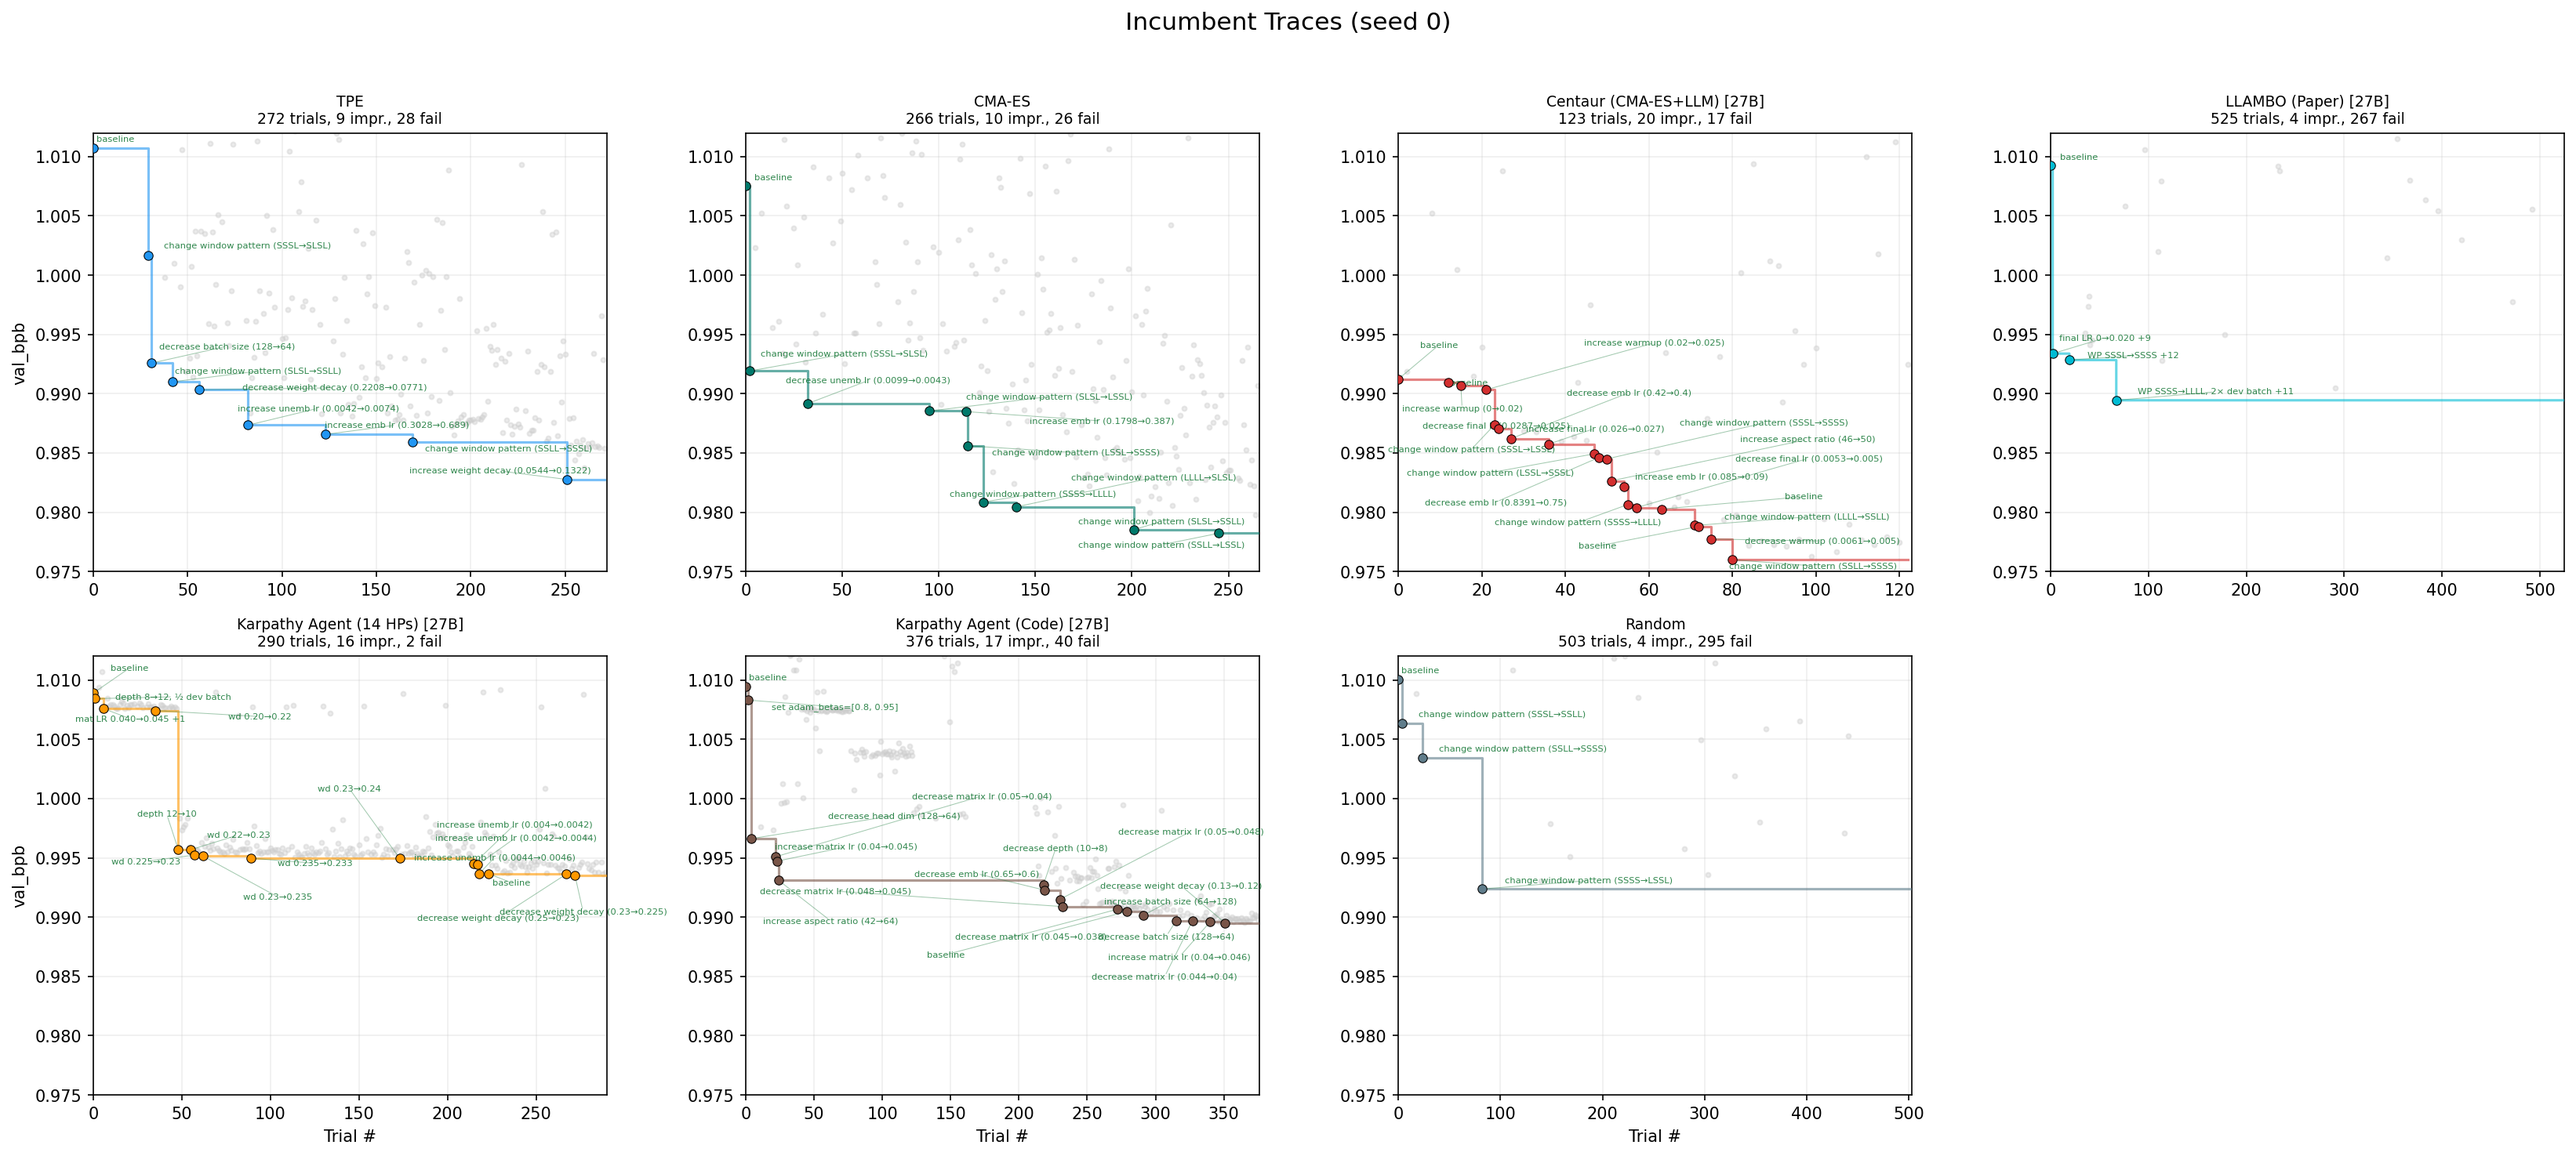
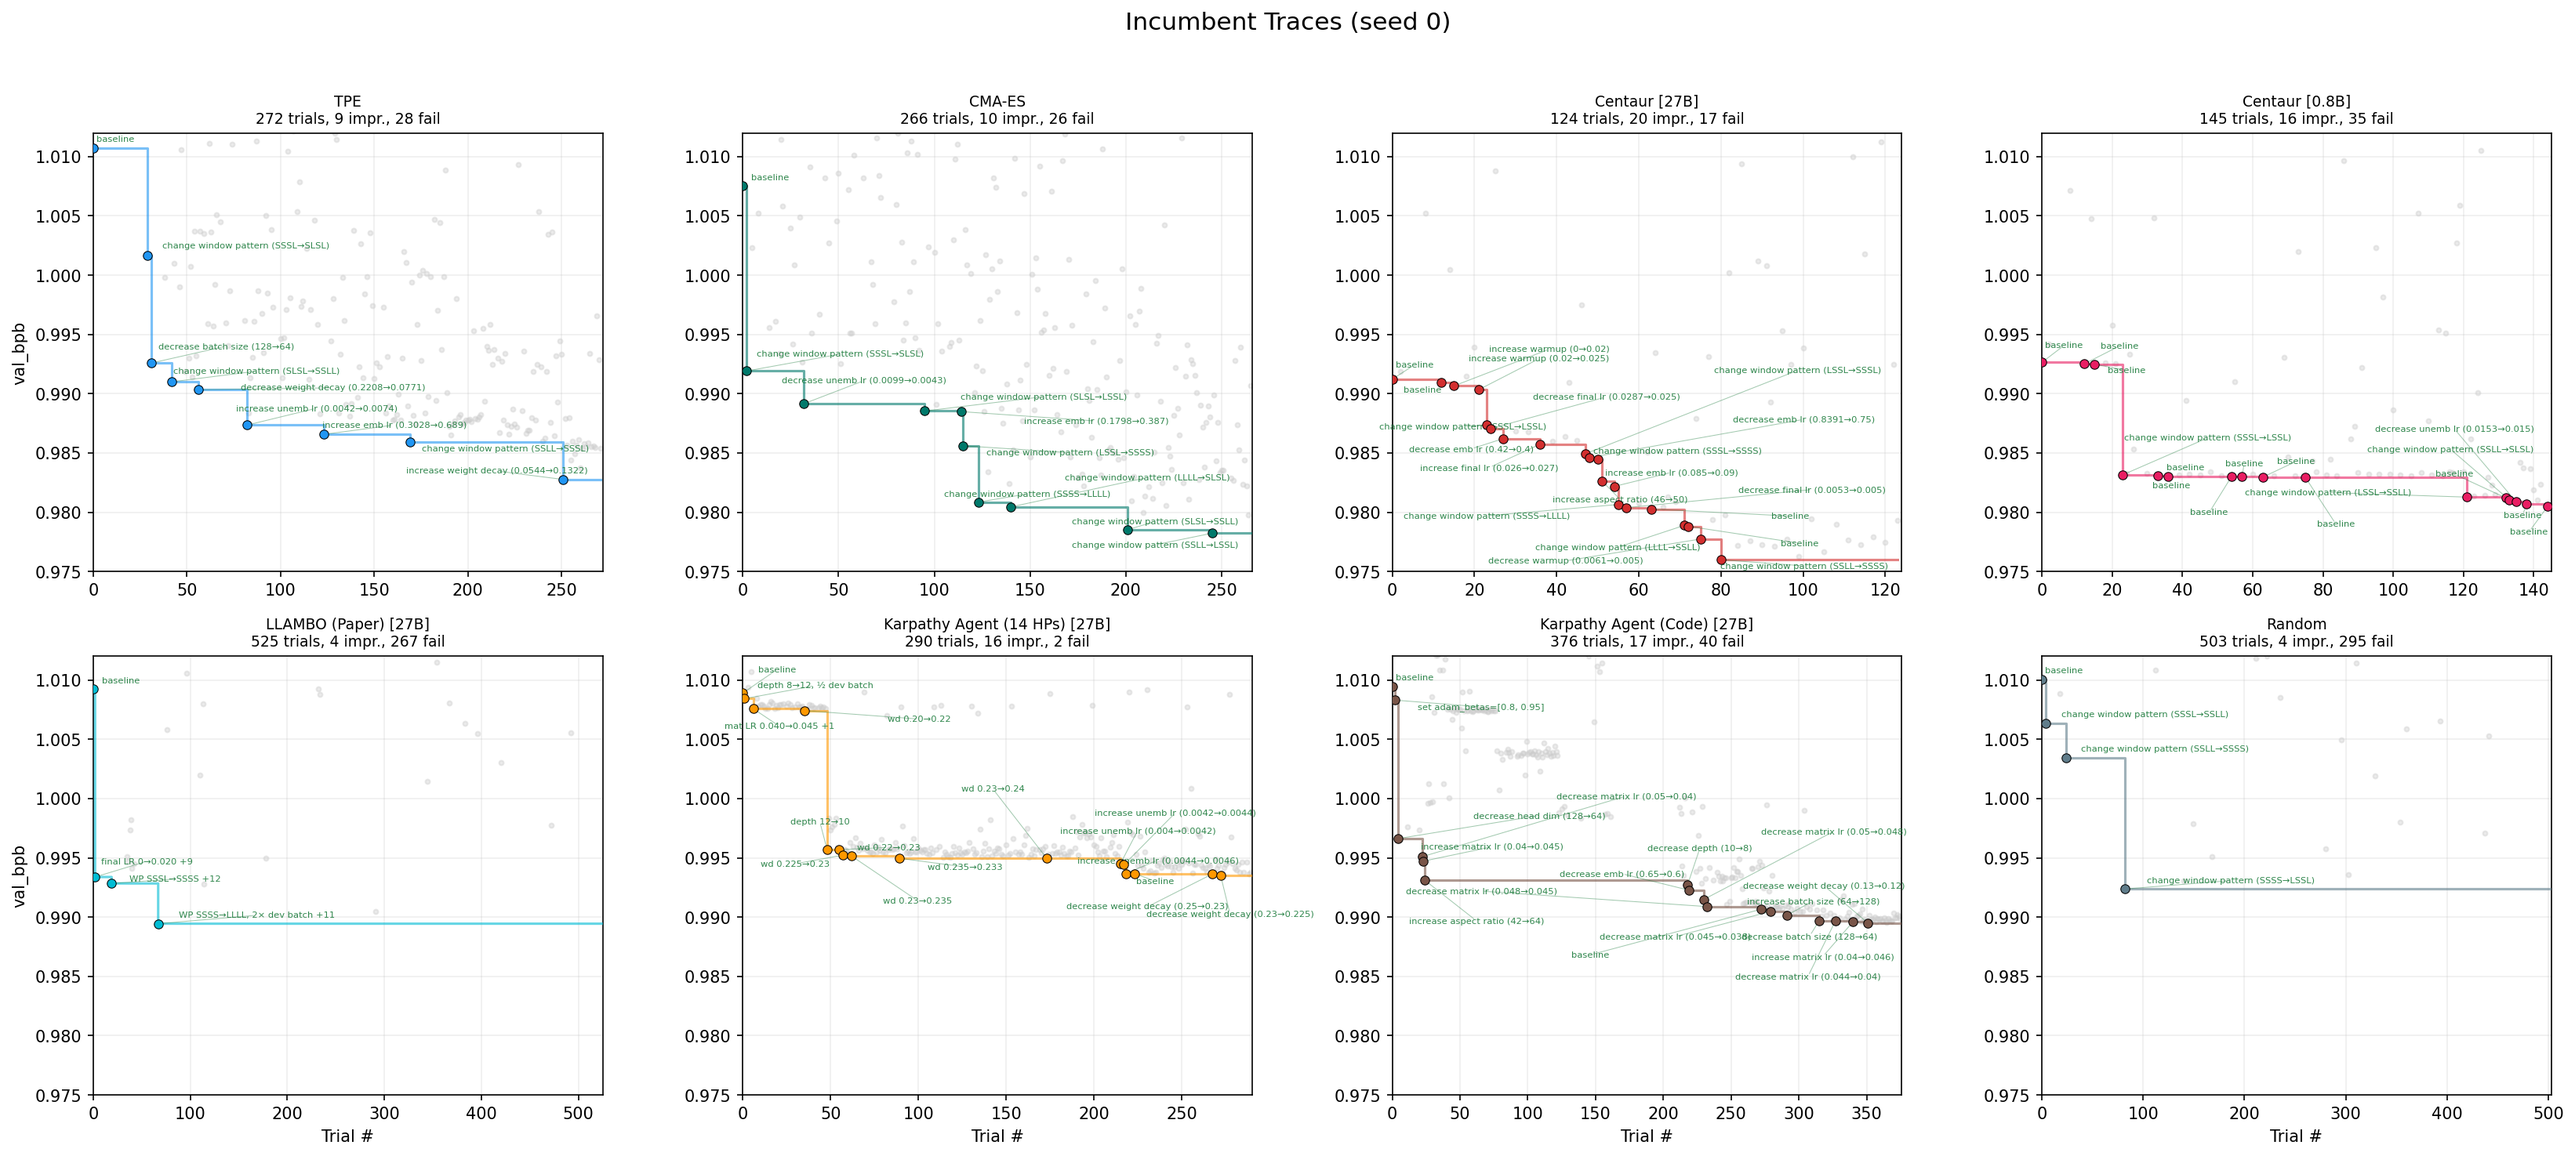
Update plots: 27B-only convergence, 0.8B vs 27B comparison, add Centaur to incumbents

diff --git a/scripts/plot_convergence.py b/scripts/plot_convergence.py
@@ -132,45 +132,42 @@ def plot_exp2_0_8b(results_dir: Path, output_path: Path):
 
 
 def plot_exp2_27b(results_dir: Path, output_path: Path):
-    """Exp2: 27B — all backends."""
+    """Exp2: 27B — all backends (27B only, no model size tag)."""
     backends = {
         "optuna": {"label": "TPE", "color": "#2196F3"},
         "cma_es": {"label": "CMA-ES", "color": "#00796B"},
-        "centaur_Qwen3_5_27B": {"label": "Centaur (CMA-ES+LLM) [27B]", "color": "#D32F2F"},
-        "centaur_Qwen3_5_0_8B": {"label": "Centaur (CMA-ES+LLM) [0.8B]", "color": "#E91E63"},
-        "llm_greedy_Qwen3_5_27B_nothink": {"label": "Karpathy Agent (14 HPs) [27B]", "color": "#FF9800"},
-        "llambo_Qwen3_5_27B_nothink": {"label": "LLAMBO (Optuna) [27B]", "color": "#9C27B0"},
-        "llambo_original_Qwen3_5_27B_nothink": {"label": "LLAMBO (Paper) [27B]", "color": "#00BCD4"},
+        "centaur_Qwen3_5_27B": {"label": "Centaur (CMA-ES+LLM)", "color": "#D32F2F"},
+        "llm_greedy_Qwen3_5_27B_nothink": {"label": "Karpathy Agent (14 HPs)", "color": "#FF9800"},
+        "llambo_Qwen3_5_27B_nothink": {"label": "LLAMBO (Optuna)", "color": "#9C27B0"},
+        "llambo_original_Qwen3_5_27B_nothink": {"label": "LLAMBO (Paper)", "color": "#00BCD4"},
         "random": {"label": "Random", "color": "#607D8B"},
     }
     plot_convergence_multi(
         results_dir / "exp2_benchmark",
         backends,
         output_path,
-        title="Karpathy's Autoresearch: HPO Convergence (27B + Classical)",
+        title="Karpathy's Autoresearch: HPO Convergence",
         xlim=(0, 300),
     )
 
 
 def plot_exp2_all(results_dir: Path, output_path: Path):
-    """All backends on one plot."""
+    """0.8B vs 27B comparison for all LLM methods, with classical references."""
     backends = {
-        "optuna": {"label": "TPE", "color": "#2196F3", "linestyle": "-"},
-        "cma_es": {"label": "CMA-ES", "color": "#00796B", "linestyle": "-"},
-        "centaur_Qwen3_5_27B": {"label": "Centaur (CMA-ES+LLM) [27B]", "color": "#D32F2F", "linestyle": "-"},
-        "centaur_Qwen3_5_0_8B": {"label": "Centaur (CMA-ES+LLM) [0.8B]", "color": "#E91E63", "linestyle": "--"},
-        "random": {"label": "Random", "color": "#607D8B", "linestyle": "-"},
-        "smac": {"label": "SMAC", "color": "#8BC34A", "linestyle": "-"},
-        "llm_greedy_Qwen3_5_27B_nothink": {"label": "Karpathy Agent (14 HPs) [27B]", "color": "#FF9800", "linestyle": "-"},
-        "llambo_Qwen3_5_27B_nothink": {"label": "LLAMBO (Optuna) [27B]", "color": "#9C27B0", "linestyle": "-"},
+        "cma_es": {"label": "CMA-ES (classical)", "color": "#00796B", "linestyle": "-"},
+        "centaur_Qwen3_5_27B": {"label": "Centaur [27B]", "color": "#D32F2F", "linestyle": "-"},
+        "centaur_Qwen3_5_0_8B": {"label": "Centaur [0.8B]", "color": "#D32F2F", "linestyle": "--"},
         "llambo_original_Qwen3_5_27B_nothink": {"label": "LLAMBO (Paper) [27B]", "color": "#00BCD4", "linestyle": "-"},
+        "llambo_original": {"label": "LLAMBO (Paper) [0.8B]", "color": "#00BCD4", "linestyle": "--"},
+        "llm_greedy_Qwen3_5_27B_nothink": {"label": "Karpathy Agent (14 HPs) [27B]", "color": "#FF9800", "linestyle": "-"},
         "karpathy_agent_Qwen3_5_27B": {"label": "Karpathy Agent (Code) [27B]", "color": "#795548", "linestyle": "-"},
+        "karpathy_agent_Qwen3_5_0_8B": {"label": "Karpathy Agent (Code) [0.8B]", "color": "#795548", "linestyle": "--"},
     }
     plot_convergence_multi(
         results_dir / "exp2_benchmark",
         backends,
         output_path,
-        title="Karpathy's Autoresearch: All HPO Methods",
+        title="Karpathy's Autoresearch: 0.8B vs 27B LLM Optimizer",
         xlim=(0, 300),
     )
 
@@ -465,7 +462,8 @@ def plot_progress_combined(results_dir: Path, output_path: Path):
     backends = [
         ("optuna", "TPE", "#2196F3"),
         ("cma_es", "CMA-ES", "#00796B"),
-        ("centaur_Qwen3_5_27B", "Centaur (CMA-ES+LLM) [27B]", "#D32F2F"),
+        ("centaur_Qwen3_5_27B", "Centaur [27B]", "#D32F2F"),
+        ("centaur_Qwen3_5_0_8B", "Centaur [0.8B]", "#E91E63"),
         ("llambo_original_Qwen3_5_27B_nothink", "LLAMBO (Paper) [27B]", "#00BCD4"),
         ("llm_greedy_Qwen3_5_27B_nothink", "Karpathy Agent (14 HPs) [27B]", "#FF9800"),
         ("karpathy_agent_Qwen3_5_27B", "Karpathy Agent (Code) [27B]", "#795548"),
